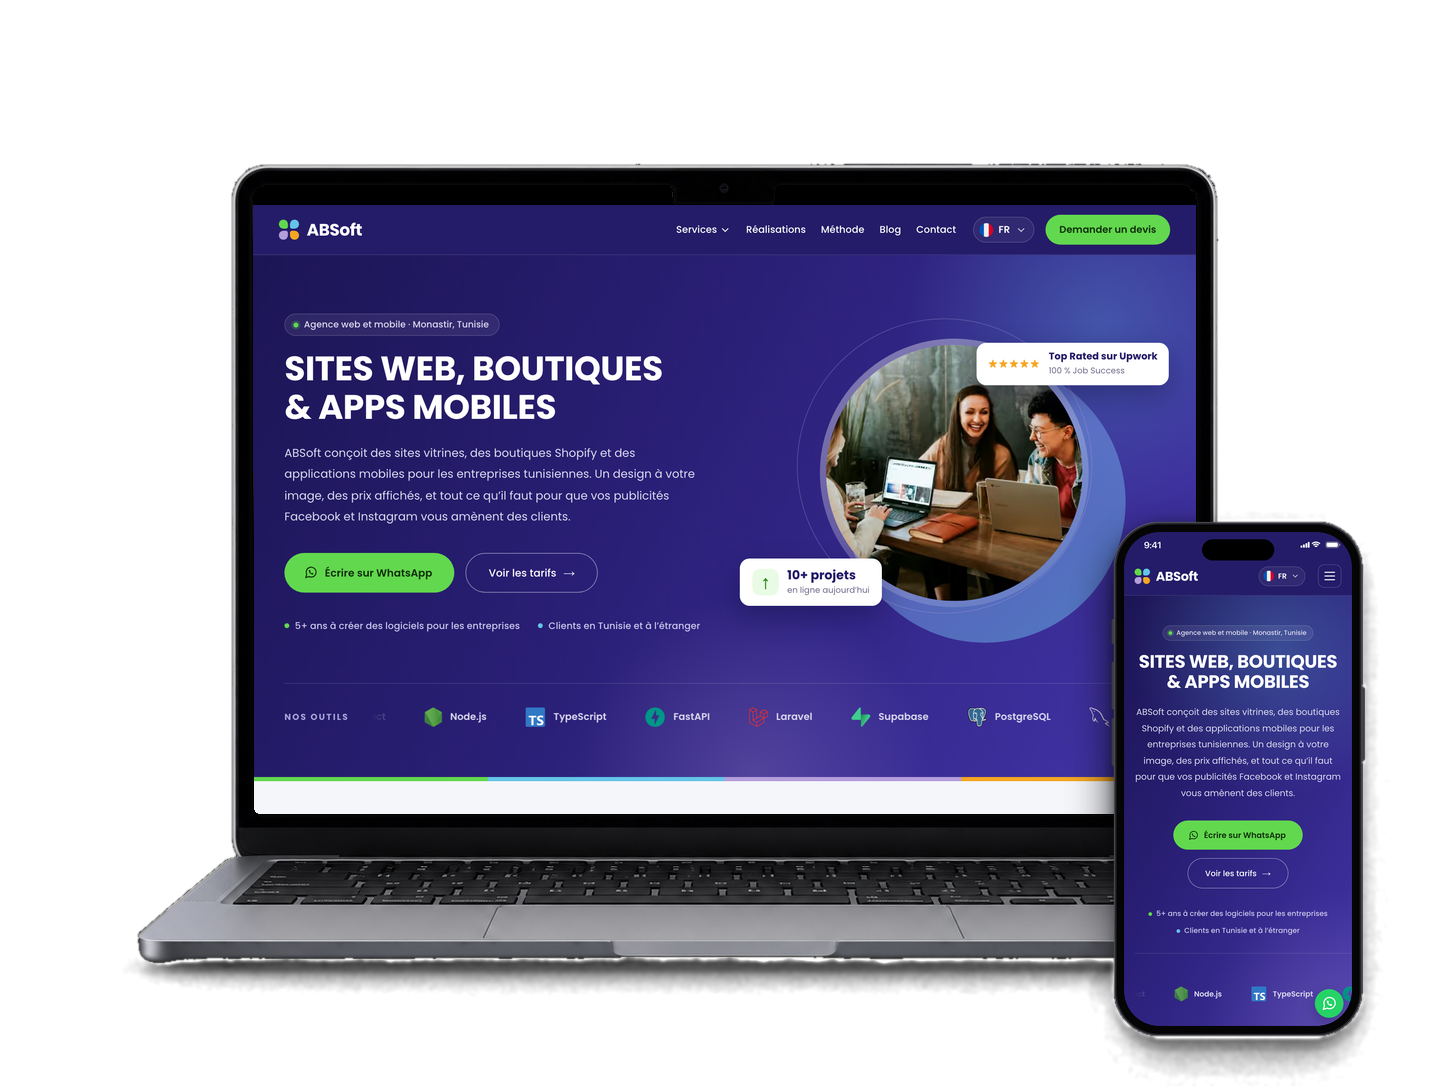
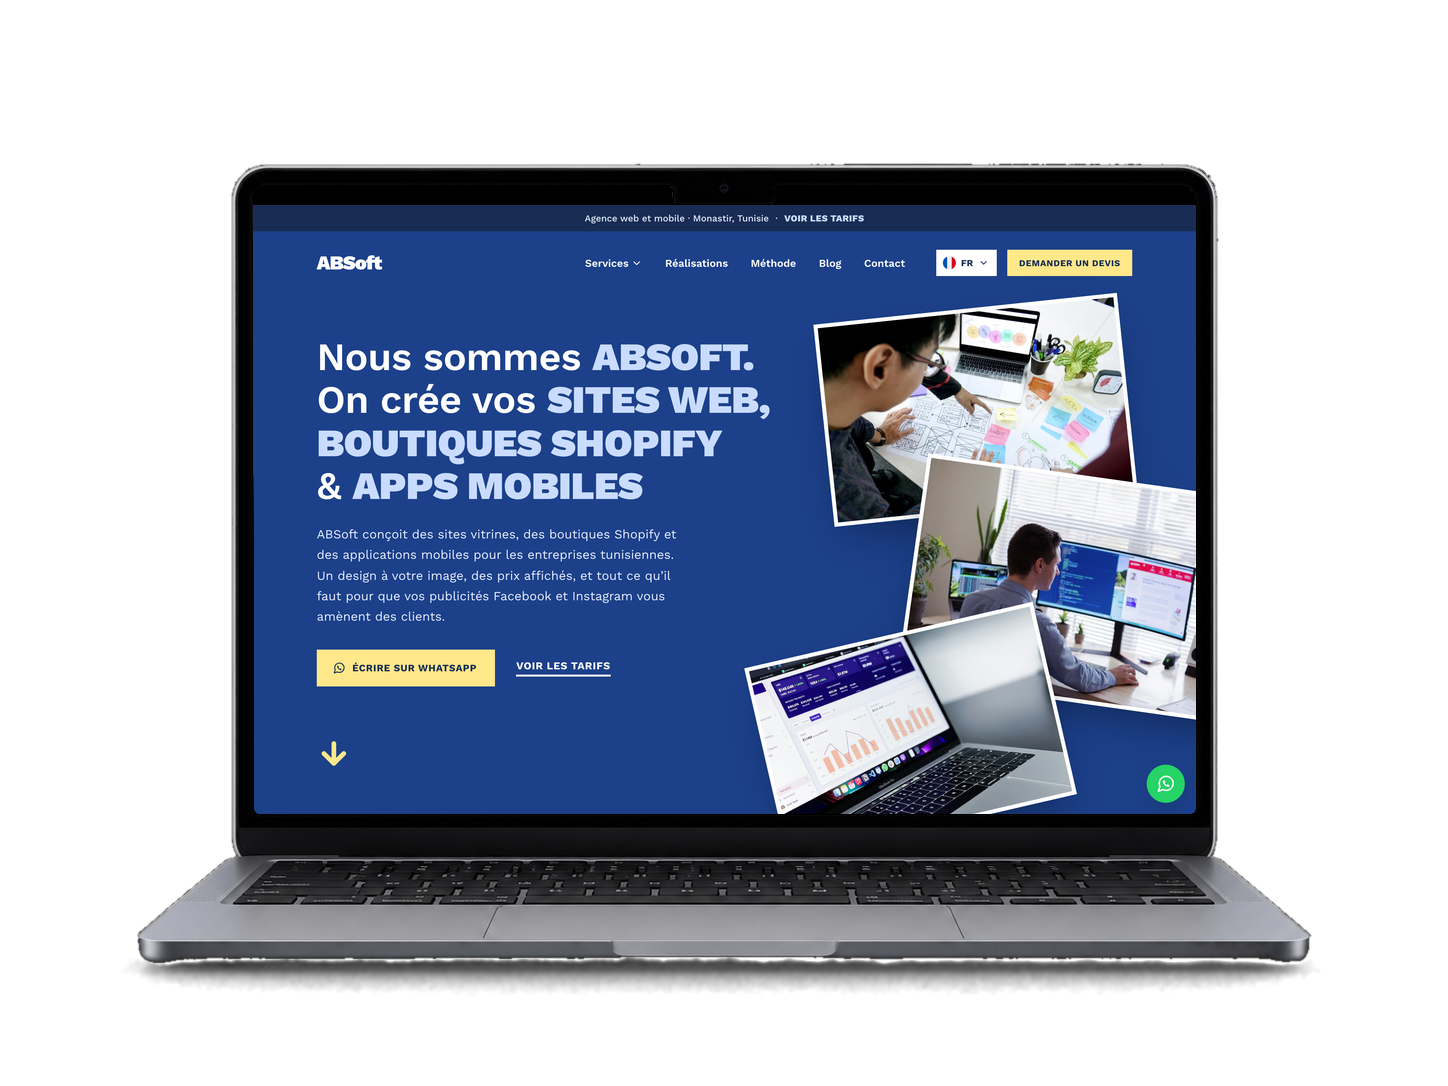
Update MenuMate and ABSoft mockups to their new designs
Keep the MacBook frame in its own file so the mockup script still finds
the screen now that the MenuMate image shows a dark page.

diff --git a/website/src/components/home/project-card.jsx b/website/src/components/home/project-card.jsx
@@ -14,7 +14,7 @@ export function ProjectCard({ project, hidden = false }) {
     >
       <span className="relative block aspect-[4/3]">
         <Image
-          src={`${project.image}?v=20260926-3`}
+          src={`${project.image}?v=20260927-2`}
           alt={`${project.name} demo`}
           fill
           draggable={false}

diff --git a/website/scripts/mockup.py b/website/scripts/mockup.py
@@ -11,7 +11,7 @@ parser.add_argument("desktop")
 parser.add_argument("out")
 parser.add_argument("--phone", help="phone screenshot from capture.mjs (430 css px wide at 3x)")
 parser.add_argument("--bar", default="#000000", help="status bar color, use the site's theme-color")
-parser.add_argument("--frame", default=HERE.parent / "public/projects/menumate-demo.png")
+parser.add_argument("--frame", default=HERE / "macbook-frame.png")
 args = parser.parse_args()
 
 frame = Image.open(args.frame).convert("RGBA")

diff --git a/website/PROJECT-IMAGE-PROMPTS.md b/website/PROJECT-IMAGE-PROMPTS.md
@@ -14,7 +14,7 @@ It makes the dark area around the devices transparent and keeps their shadows.
 
 ## References
 
-- Web mockup and shared frame: `public/projects/menumate-demo.png`.
+- Web mockup and shared frame: `scripts/macbook-frame.png` (the old MenuMate mockup).
 - Desktop app on the MacBook screen: `public/projects/backupmaster-demo.png` (light app) and `public/projects/promptstream-demo.png` (dark app).
 - Content source: a screenshot of the project being presented.
 
@@ -22,7 +22,7 @@ Use the existing mockup as Image 1 and the new project's screenshot as Image 2. 
 
 ## Scripted website mockups
 
-For websites that open in a browser, use the scripts in `scripts/` instead of the prompts. They place real screenshots in the same MacBook frame, so nothing gets redrawn. ABSoft, Taroura Arena, Karta and Internly were made this way.
+For websites that open in a browser, use the scripts in `scripts/` instead of the prompts. They place real screenshots in the same MacBook frame, so nothing gets redrawn. MenuMate, ABSoft, Taroura Arena, Karta and Internly were made this way.
 
 1. Take the screenshots:
 
@@ -35,7 +35,7 @@ For websites that open in a browser, use the scripts in `scripts/` instead of th
    - `phone`: 430 x 885 css px at 3x, with an iPhone user agent and touch. Chrome windows can't go below about 500 px wide, so the script uses Chrome's device emulation instead of resizing a window.
    - `--reduce-motion` shows the page's still poster instead of a random video frame (used for Taroura Arena).
    - `--cookie=name=value` sets a cookie before loading, for example `--cookie=karta_consent=no` so the cookie banner doesn't cover the page.
-   - `--width` and `--height` change the view. Keep width / height at about 1.5. When a hero is shorter than the screen, pick the width so the view ends just past the hero: the start of the next section's background shows, but none of its text. ABSoft uses `--width=1360 --height=905`.
+   - `--width` and `--height` change the view. Keep width / height at about 1.5. When a hero is shorter or taller than the screen, pick the width so the view ends just past the hero: the start of the next section's background shows, but none of its text. MenuMate uses `--width=1620 --height=1080`. The strip under the notch trims the bottom of the view, so ABSoft uses `--height=929` to keep its floating WhatsApp button whole.
    - Run the site locally when it has changes that aren't live yet. For a Next.js site, use a production build (`next build` and `next start`), because the dev server adds its own badge to the page.
    - For apps behind a login, sign in inside the same Chrome session, then take the screenshots. Internly's login form comes filled in with a demo account, so the script only clicks "Log in".
 
@@ -48,7 +48,7 @@ For websites that open in a browser, use the scripts in `scripts/` instead of th
 
 ### MacBook
 
-- Frame: `public/projects/menumate-demo.png`, the MacBook on a transparent background. New mockups keep that transparency. The script finds its screen (941 x 626 px, top left at x=254, y=187) and keeps the frame's notch and corners.
+- Frame: `scripts/macbook-frame.png`, the MacBook on a transparent background. Don't swap it for a new mockup: the script finds the screen by its light page. New mockups keep that transparency. The script finds its screen (941 x 626 px, top left at x=254, y=187) and keeps the frame's notch and corners.
 - The page starts below the notch, with a black strip beside it, like a fullscreen app. No content sits under the notch.
 
 ### Phone (only when asked)
@@ -58,8 +58,8 @@ Add the phone only when the request asks for it. By default, show the MacBook al
 - Size on the 1448 x 1086 canvas: 248 x 514 px, bottom right corner at x=1362, y=1036, standing in front of the laptop's right corner.
 - Corner radius 45 px, screen inset 10 px, Dynamic Island 72 x 21 px, side buttons on both sides, soft black shadow.
 - iOS status bar (9:41, signal, wifi, battery), 47 css px tall, in the site's `theme-color`, like Safari. Pass the color with `--bar`.
-- The phone can show a different page of the same project when that tells the story better. For example, MenuMate's landing page on the MacBook and a restaurant's public menu page on the phone. For ABSoft, both devices show the landing page. Taroura Arena shows the MacBook only.
-- The phone screen should end cleanly, with no content cut at the bottom. If the hero doesn't fit, fix the site's mobile layout (ABSoft hides its photo on phones and lets the hero fill the first screen).
+- The phone can show a different page of the same project when that tells the story better. For example, MenuMate's landing page on the MacBook and a restaurant's public menu page on the phone. ABSoft and Taroura Arena show the MacBook only.
+- The phone screen should end cleanly, with no content cut at the bottom. If the hero doesn't fit, fix the site's mobile layout.
 
 ### Project pages with more screenshots
 
